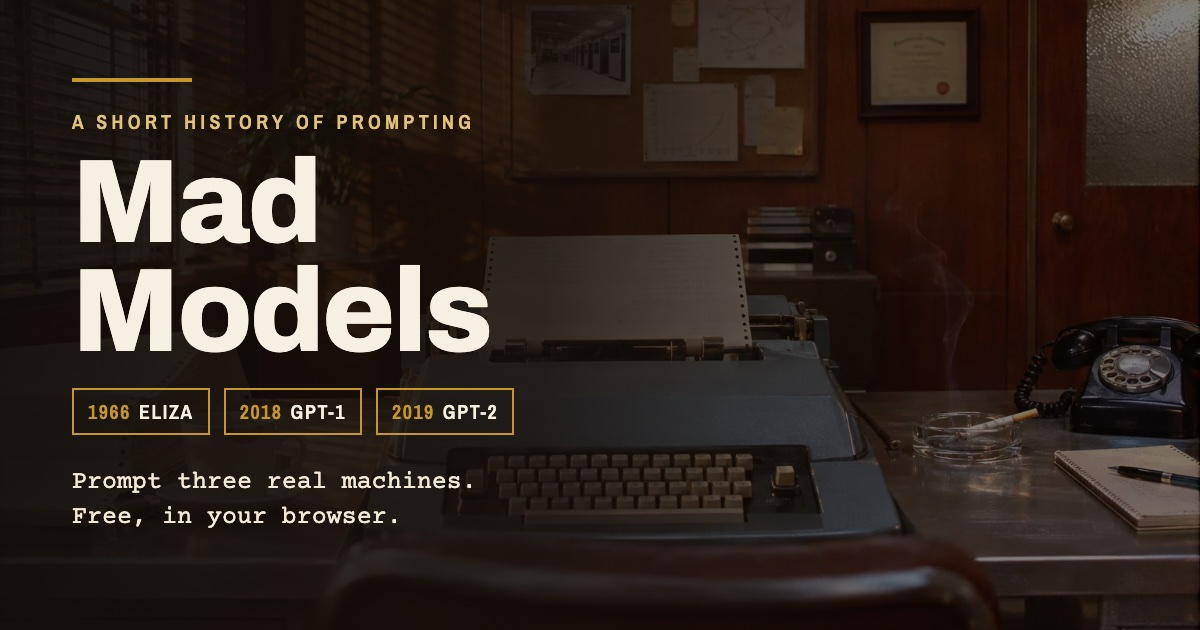
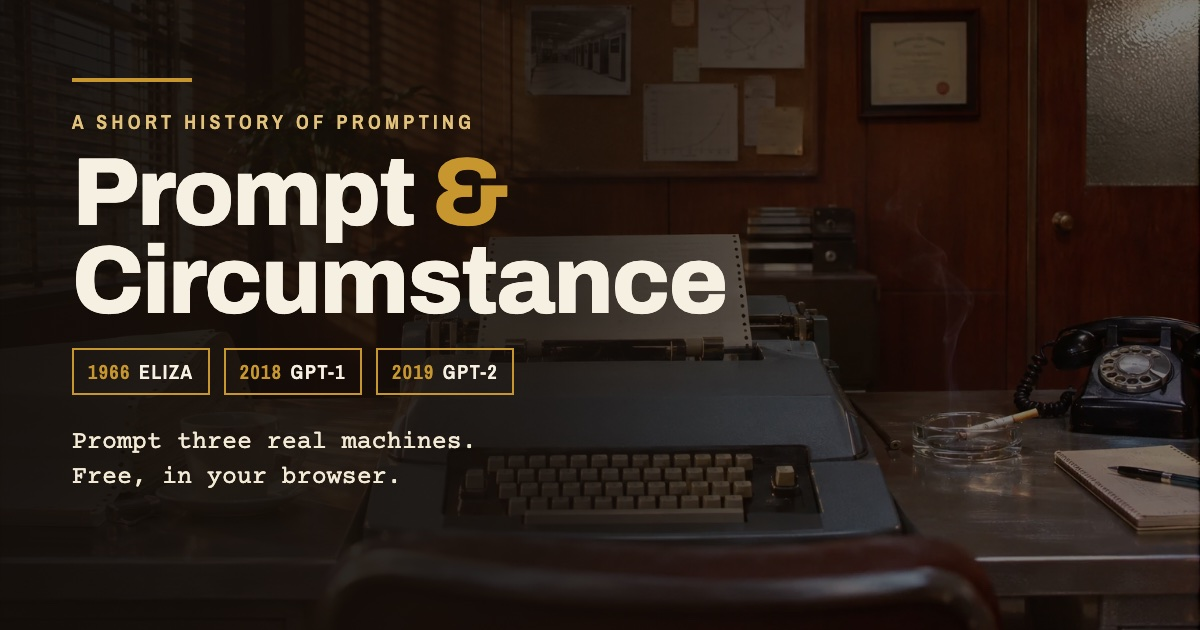
Rename the game to Prompt & Circumstance
Title screen, page title and share tags, link-preview image, certificate
and README. The repo, folder and web address keep the working title.

Changed region(s): [[0.0617, 0.2413, 0.6167, 0.8444]]

diff --git a/src/finale/certificate.ts b/src/finale/certificate.ts
@@ -161,7 +161,7 @@ export function drawCertificate(canvas: HTMLCanvasElement, info: CertInfo): void
   ink(`TIME: ${formatTime(info.playMs)}`, L + 20, foot, 28, { bold: true });
   ink('SEE YOU IN 2022.', R - 20, foot, 28, { bold: true, align: 'right' });
   ink('-'.repeat(52), C, CERT_H - 190, 24, { align: 'center' });
-  ink('MAD MODELS · A SHORT HISTORY OF PROMPTING', C, CERT_H - 140, 24, { align: 'center' });
+  ink('PROMPT & CIRCUMSTANCE · A HISTORY OF PROMPTING', C, CERT_H - 140, 24, { align: 'center' });
   ink(SITE.toUpperCase(), C, CERT_H - 100, 22, { align: 'center', color: '#5b4f40' });
 }
 
@@ -228,7 +228,7 @@ export async function showCertificate(app: HTMLElement, data: SaveData, persist:
   });
 
   const toBlob = () => new Promise<Blob>((res, rej) => canvas.toBlob((b) => (b ? res(b) : rej(new Error('no image'))), 'image/png'));
-  const filename = 'mad-models-certificate.png';
+  const filename = 'prompt-and-circumstance-certificate.png';
   el.querySelector('.cert-dl')!.addEventListener('click', async () => {
     const url = URL.createObjectURL(await toBlob());
     const a = document.createElement('a');
@@ -236,7 +236,7 @@ export async function showCertificate(app: HTMLElement, data: SaveData, persist:
     a.download = filename;
     a.click();
     setTimeout(() => URL.revokeObjectURL(url), 2000);
-    status.textContent = 'Saved as mad-models-certificate.png.';
+    status.textContent = `Saved as ${filename}.`;
   });
   const probe = new File([new Blob()], filename, { type: 'image/png' });
   if (navigator.canShare?.({ files: [probe] })) {
@@ -244,7 +244,7 @@ export async function showCertificate(app: HTMLElement, data: SaveData, persist:
     share.addEventListener('click', async () => {
       try {
         const file = new File([await toBlob()], filename, { type: 'image/png' });
-        await navigator.share({ files: [file], title: 'Mad Models', text: 'I prompted ELIZA, GPT-1 and GPT-2.' });
+        await navigator.share({ files: [file], title: 'Prompt & Circumstance', text: 'I prompted ELIZA, GPT-1 and GPT-2.' });
       } catch {
         // cancelled
       }

diff --git a/index.html b/index.html
@@ -5,17 +5,17 @@
     <link rel="icon" type="image/svg+xml" href="./favicon.svg" />
     <meta name="viewport" content="width=device-width, initial-scale=1.0" />
     <meta name="description" content="Prompt three real language models from three eras of AI: ELIZA (1966), GPT-1 (2018) and GPT-2 (2019)." />
-    <title>Mad Models</title>
+    <title>Prompt &amp; Circumstance</title>
     <meta name="theme-color" content="#120d09" />
     <meta property="og:type" content="website" />
-    <meta property="og:site_name" content="Mad Models" />
-    <meta property="og:title" content="Mad Models: a short history of prompting" />
+    <meta property="og:site_name" content="Prompt &amp; Circumstance" />
+    <meta property="og:title" content="Prompt &amp; Circumstance: a short history of prompting" />
     <meta property="og:description" content="Prompt three real machines from three eras of AI: ELIZA (1966), GPT-1 (2018) and GPT-2 (2019). A free browser game." />
     <meta property="og:url" content="https://almostmike.github.io/mad-models/" />
     <meta property="og:image" content="https://almostmike.github.io/mad-models/og.jpg" />
     <meta property="og:image:width" content="1200" />
     <meta property="og:image:height" content="630" />
-    <meta property="og:image:alt" content="Mad Models title card over a 1966 office with an IBM typewriter terminal" />
+    <meta property="og:image:alt" content="Prompt &amp; Circumstance title card over a 1966 office with an IBM typewriter terminal" />
     <meta name="twitter:card" content="summary_large_image" />
     <link rel="preload" as="image" href="./art/l1-office.webp" fetchpriority="high" />
     <link rel="preconnect" href="https://fonts.googleapis.com" />
@@ -24,7 +24,7 @@
   </head>
   <body>
     <main id="app"></main>
-    <noscript>Mad Models needs JavaScript.</noscript>
+    <noscript>Prompt &amp; Circumstance needs JavaScript.</noscript>
     <script type="module" src="/src/main.ts"></script>
   </body>
 </html>

diff --git a/tools/og/og.html b/tools/og/og.html
@@ -14,7 +14,8 @@
   .copy { position: absolute; z-index: 1; left: 72px; top: 78px; width: 640px; }
   .rule { width: 120px; height: 4px; background: #c8962e; margin-bottom: 26px; }
   .eyebrow { margin: 0; font: 600 20px "Archivo Narrow", sans-serif; letter-spacing: 0.22em; text-transform: uppercase; color: #e2c27a; }
-  h1 { margin: 14px 0 22px; font-size: 118px; line-height: 0.92; font-weight: 800; letter-spacing: -0.02em; }
+  .amp { color: #c8962e; }
+  h1 { margin: 14px 0 22px; font-size: 96px; line-height: 0.92; font-weight: 800; letter-spacing: -0.02em; }
   .eras { display: flex; gap: 14px; margin: 0 0 30px; padding: 0; list-style: none; }
   .eras li { font: 600 20px "Archivo Narrow", sans-serif; letter-spacing: 0.08em; text-transform: uppercase; border: 2px solid #c8962e; padding: 8px 14px; }
   .eras b { color: #c8962e; margin-right: 8px; }
@@ -27,7 +28,7 @@
     <div class="copy">
       <div class="rule"></div>
       <p class="eyebrow">A short history of prompting</p>
-      <h1>Mad<br />Models</h1>
+      <h1>Prompt <span class="amp">&amp;</span><br />Circumstance</h1>
       <ul class="eras"><li><b>1966</b>ELIZA</li><li><b>2018</b>GPT-1</li><li><b>2019</b>GPT-2</li></ul>
       <p class="line">Prompt three real machines.<br />Free, in your browser.</p>
     </div>

diff --git a/src/style.css b/src/style.css
@@ -147,12 +147,14 @@ kbd {
 
 .title-card h1 {
   font-weight: 800;
-  font-size: clamp(48px, 12vw, 92px);
-  line-height: 0.95;
+  font-size: clamp(30px, 9vw, 64px);
+  line-height: 0.98;
   letter-spacing: -0.02em;
   margin: 0 0 28px;
   color: var(--cream-ui);
 }
+
+.title-card h1 .amp { color: var(--mustard); font-weight: 600; }
 
 .lede { color: #e2d6bf; line-height: 1.55; margin: 0 auto 28px; max-width: 42ch; }
 

diff --git a/src/main.ts b/src/main.ts
@@ -119,7 +119,7 @@ function titleScreen() {
   t.innerHTML = `
     <div class="title-card">
       <p class="eyebrow">A short history of prompting, in three machines</p>
-      <h1>Mad Models</h1>
+      <h1>Prompt <span class="amp">&amp;</span> Circumstance</h1>
       <ol class="eras"></ol>
       <div class="title-actions"></div>
       <p class="fine">Best with sound. Desktop recommended. Ages 13+.</p>

diff --git a/README.md b/README.md
@@ -1,10 +1,10 @@
-# Mad Models
+# Prompt & Circumstance
 
-**A short history of prompting, in three machines.** A free browser game, about 20 minutes long.
+**A short history of prompting, in three machines.** A free browser game, about 20 minutes long. (Working title: Mad Models, which is why the repo and web address still use it.)
 
 ### ▶ [Play it](https://almostmike.github.io/mad-models/)
 
-[![Mad Models: a 1966 office with an IBM typewriter terminal](public/og.jpg)](https://almostmike.github.io/mad-models/)
+[![Prompt & Circumstance: a 1966 office with an IBM typewriter terminal](public/og.jpg)](https://almostmike.github.io/mad-models/)
 
 You sit down at three real machines from three eras of AI and learn to get something out of each one:
 
@@ -72,4 +72,4 @@ npm test
 
 ## License
 
-The code is MIT (see [LICENSE](LICENSE)). The scene images, music and voice clips are not covered by it. They were made with AI tools under those tools' terms; see [docs/CREDITS.md](docs/CREDITS.md). Mad Models is non-commercial.
+The code is MIT (see [LICENSE](LICENSE)). The scene images, music and voice clips are not covered by it. They were made with AI tools under those tools' terms; see [docs/CREDITS.md](docs/CREDITS.md). Prompt & Circumstance is non-commercial.

diff --git a/docs/PRD.md b/docs/PRD.md
@@ -1,4 +1,4 @@
-# Mad Models — Product Requirements Document
+# Prompt & Circumstance (formerly Mad Models) — Product Requirements Document
 
 *Working title. Version 1.0, drafted 2026-11-20.*
 
@@ -535,7 +535,7 @@ Grey-box first means the game is fun before it's pretty. The art pass then drops
 
 ## 20. Open items
 
-1. **Title.** Launched as "Mad Models". Alternatives if it ever changes: *Prompt & Circumstance*, *Before the Chat*, *Ghost in the Teletype*.
+1. ~~**Title.**~~ Decided 2026-11-20: **Prompt & Circumstance**. "Mad Models" was the working title; the repo, folder and web address keep it.
 2. ~~**GitHub account/org and repo name** for the public repo.~~ Decided: github.com/almostmike/mad-models.
 3. ~~**Player name** on the certificate: optional free-text field, or skip it?~~ Decided in M6: optional free-text field, kept only in this browser.
 4. **Sandbox mode** after completion: later. The finale's free-text prompt and the unlisted Model Lab (`/lab.html`) cover it for now.
